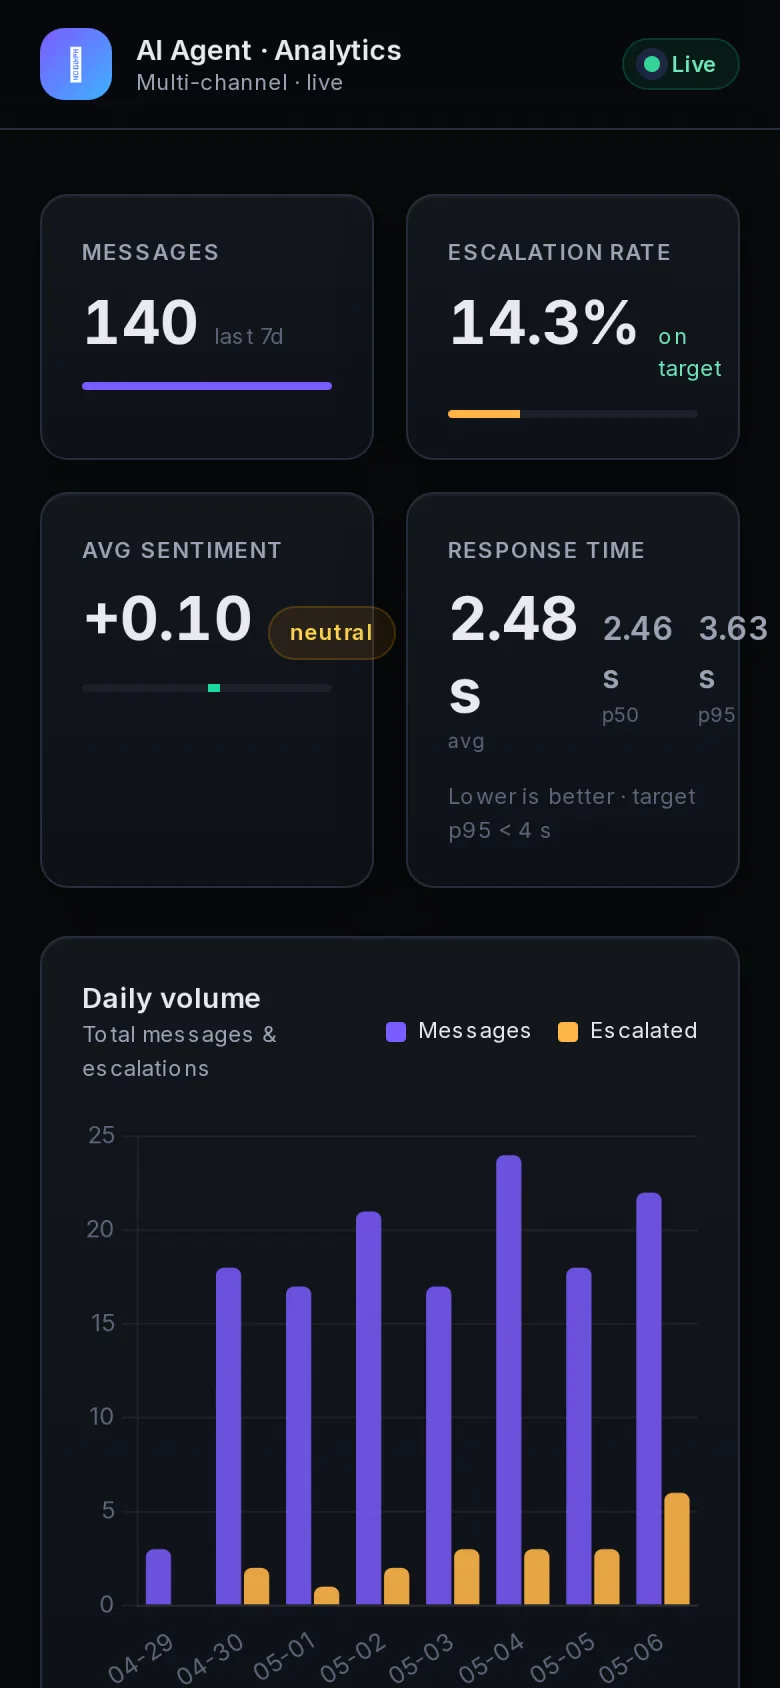
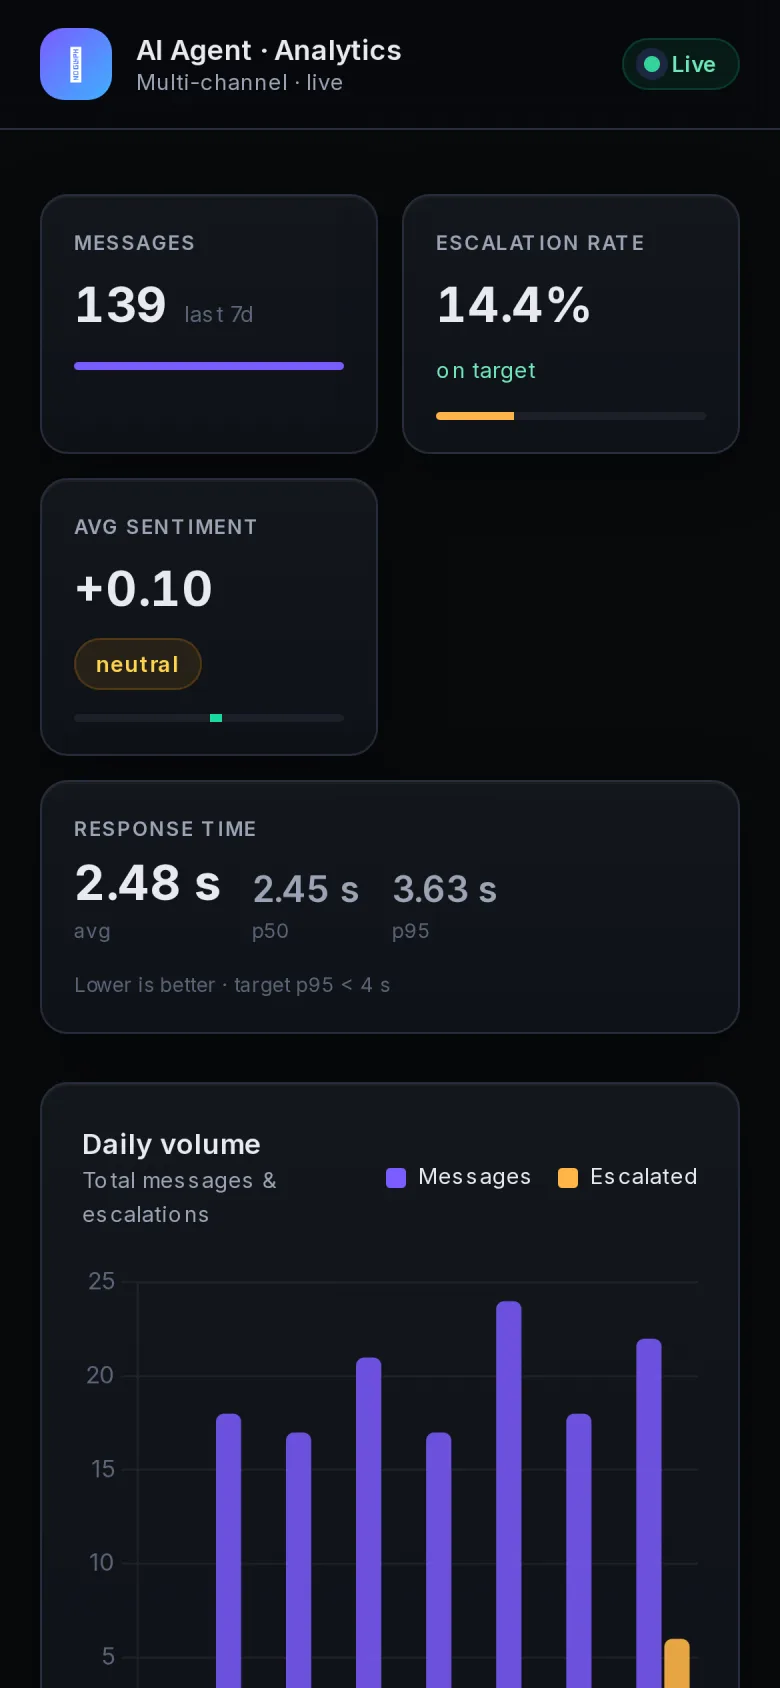
fix(dashboard mobile): KPI cards no longer overflow on narrow screens
Symptoms (390px wide viewport):
- 'Escalation rate' card: '14.3%' + 'on target' chip pushed past the right edge
- 'Avg sentiment' card: '+0.10' + 'neutral' badge clipped on the right
- 'Response time' card: three numbers (2.48s, 2.46s, 3.63s) overflowed because
  three stats can't fit half a phone column

Fixes:
- Title font 11px -> 10px on mobile, value font 3xl -> 2xl
- flex-wrap on KPI title rows so chips drop below the value when needed
- min-w-0 on cards + truncate on values (defensive against very long numbers)
- Response time card spans full width (col-span-2) on mobile, single column on desktop
- p50/p95 numbers bumped from text-base -> text-lg on mobile for legibility

Verified at 390x844 (iPhone 13) and 1440x900 (laptop) — both clean.

diff --git a/analytics/dashboard.py b/analytics/dashboard.py
@@ -117,30 +117,30 @@ DASHBOARD_HTML = """<!doctype html>
     <main class="max-w-7xl mx-auto px-5 lg:px-8 py-8 space-y-6">
 
       <!-- ============== KPI Row ============== -->
-      <section class="grid grid-cols-2 lg:grid-cols-4 gap-4">
-        <div class="card p-5">
-          <div class="text-[11px] uppercase tracking-wider text-text-secondary font-semibold">Messages</div>
-          <div class="mt-2 flex items-baseline gap-2">
-            <div id="kpiMessages" class="text-3xl font-bold tabular-nums">—</div>
-            <div class="text-[11px] text-text-muted">last <span data-window>7d</span></div>
+      <section class="grid grid-cols-2 lg:grid-cols-4 gap-3 sm:gap-4">
+        <div class="card p-4 sm:p-5 min-w-0">
+          <div class="text-[10px] sm:text-[11px] uppercase tracking-wider text-text-secondary font-semibold">Messages</div>
+          <div class="mt-2 flex items-baseline gap-2 flex-wrap min-w-0">
+            <div id="kpiMessages" class="text-2xl sm:text-3xl font-bold tabular-nums truncate">—</div>
+            <div class="text-[11px] text-text-muted whitespace-nowrap">last <span data-window>7d</span></div>
           </div>
           <div class="mt-3 h-1 bg-ink-700 rounded overflow-hidden"><div id="bar-messages" class="h-full bg-accent-primary" style="width:0%"></div></div>
         </div>
 
-        <div class="card p-5">
-          <div class="text-[11px] uppercase tracking-wider text-text-secondary font-semibold">Escalation rate</div>
-          <div class="mt-2 flex items-baseline gap-2">
-            <div id="kpiEscalation" class="text-3xl font-bold tabular-nums">—</div>
-            <div id="kpiEscalationDot" class="text-[11px] text-text-muted">target &lt; 15%</div>
+        <div class="card p-4 sm:p-5 min-w-0">
+          <div class="text-[10px] sm:text-[11px] uppercase tracking-wider text-text-secondary font-semibold">Escalation rate</div>
+          <div class="mt-2 flex items-baseline gap-2 flex-wrap min-w-0">
+            <div id="kpiEscalation" class="text-2xl sm:text-3xl font-bold tabular-nums truncate">—</div>
+            <div id="kpiEscalationDot" class="text-[10px] text-text-muted whitespace-nowrap">target &lt; 15%</div>
           </div>
           <div class="mt-3 h-1 bg-ink-700 rounded overflow-hidden"><div id="bar-escalation" class="h-full bg-accent-warn" style="width:0%"></div></div>
         </div>
 
-        <div class="card p-5">
-          <div class="text-[11px] uppercase tracking-wider text-text-secondary font-semibold">Avg sentiment</div>
-          <div class="mt-2 flex items-baseline gap-2">
-            <div id="kpiSentiment" class="text-3xl font-bold tabular-nums">—</div>
-            <div id="kpiSentimentBadge" class="chip"></div>
+        <div class="card p-4 sm:p-5 min-w-0">
+          <div class="text-[10px] sm:text-[11px] uppercase tracking-wider text-text-secondary font-semibold">Avg sentiment</div>
+          <div class="mt-2 flex items-baseline gap-2 flex-wrap min-w-0">
+            <div id="kpiSentiment" class="text-2xl sm:text-3xl font-bold tabular-nums">—</div>
+            <div id="kpiSentimentBadge" class="chip whitespace-nowrap"></div>
           </div>
           <div class="mt-3 h-1 bg-ink-700 rounded relative overflow-hidden">
             <div class="absolute inset-y-0 left-1/2 w-px bg-line"></div>
@@ -148,14 +148,24 @@ DASHBOARD_HTML = """<!doctype html>
           </div>
         </div>
 
-        <div class="card p-5">
-          <div class="text-[11px] uppercase tracking-wider text-text-secondary font-semibold">Response time</div>
-          <div class="mt-2 flex items-baseline gap-3">
-            <div><div class="text-3xl font-bold tabular-nums" id="kpiAvgMs">—</div><div class="text-[10px] text-text-muted">avg</div></div>
-            <div><div class="text-base font-semibold text-text-secondary tabular-nums" id="kpiP50">—</div><div class="text-[10px] text-text-muted">p50</div></div>
-            <div><div class="text-base font-semibold text-text-secondary tabular-nums" id="kpiP95">—</div><div class="text-[10px] text-text-muted">p95</div></div>
+        <!-- Response Time spans both mobile columns (3 numbers don't fit half-width) -->
+        <div class="card p-4 sm:p-5 col-span-2 lg:col-span-1 min-w-0">
+          <div class="text-[10px] sm:text-[11px] uppercase tracking-wider text-text-secondary font-semibold">Response time</div>
+          <div class="mt-2 flex items-end gap-4 sm:gap-3 flex-wrap">
+            <div class="min-w-0">
+              <div class="text-2xl sm:text-3xl font-bold tabular-nums leading-none" id="kpiAvgMs">—</div>
+              <div class="text-[10px] text-text-muted mt-1">avg</div>
+            </div>
+            <div class="min-w-0">
+              <div class="text-lg sm:text-base font-semibold text-text-secondary tabular-nums leading-none" id="kpiP50">—</div>
+              <div class="text-[10px] text-text-muted mt-1">p50</div>
+            </div>
+            <div class="min-w-0">
+              <div class="text-lg sm:text-base font-semibold text-text-secondary tabular-nums leading-none" id="kpiP95">—</div>
+              <div class="text-[10px] text-text-muted mt-1">p95</div>
+            </div>
           </div>
-          <div class="mt-3 text-[11px] text-text-muted">Lower is better · target p95 &lt; 4 s</div>
+          <div class="mt-3 text-[10px] text-text-muted">Lower is better · target p95 &lt; 4 s</div>
         </div>
       </section>
 